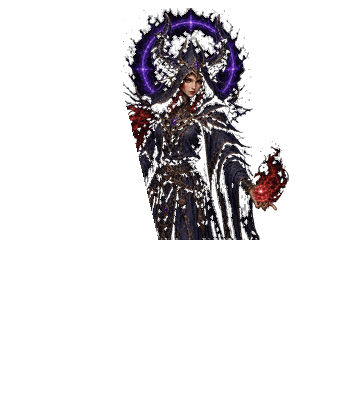
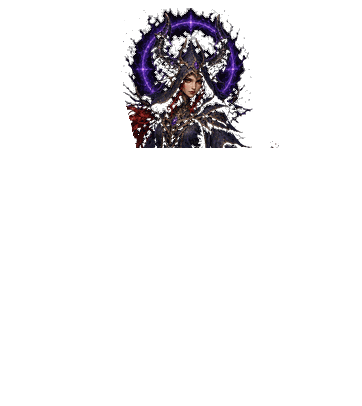
fix(mage): 마법사 모자·투구 파츠에서 상반신 걷어내기 — 투구만 빛나고 로브는 원래 색 (작업 247)
원인: mage_helms 파츠 20장이 머리·모자만이 아니라 어깨·가슴·허리·양팔·왼손 불꽃(셀 y 195)까지 담고 있어, 투구를 쓰면 파츠가 로브 위를 덮고 등급색 발광이 상반신 전체를 물들였다(IMG_1147).

- 파츠 마스크를 머리 구멍과 같은 목선(NECK_Y=104)에서 끝나게 하고 20장을 같은 시안에서 재생성(작업 227 알파 기준 유지)
- 마법사 투구 발광 마스크(성별, 캔버스 캐시): 목선으로 사라지는 페이드 + 얼굴 도려내기. 필드는 syncGearGlow maskTexture, 장비창은 paintPatch destination-in
- PILOT_ASSET_VERSION 4 → 5 (같은 파일명 재배포 캐시 무효화)

Changed region(s): [[0.3646, 0.3547, 0.8204, 0.5911]]

diff --git a/src/game/render/mageHelmets.ts b/src/game/render/mageHelmets.ts
@@ -1,4 +1,5 @@
 import type { Gender, Save } from '../store';
+import { Texture } from 'pixi.js';
 import { baseItemIndex } from '../items';
 import { pilotSheet } from './pilotAssets';
 
@@ -127,3 +128,83 @@ export function mageHelmPlacement(gender: Gender, motion: MageHelmMotion, frame 
 
 /** 장비창(내 정보) 초상화는 서기 한 장만 쓴다. */
 export const mageHelmIdlePlacement = idlePlacement;
+
+/* ── 투구 발광 마스크 (작업 247) ─────────────────────────────────────────── */
+
+/** 파츠 PNG의 셀 크기·높이(셀 362 + 위 여유 44). */
+export const MAGE_HELM_CELL = 362;
+export const MAGE_HELM_PART_HEIGHT = MAGE_HELM_CELL + MAGE_HELM_EXTRA_TOP;
+
+/**
+ * 발광 범위 — “모자·투구만 빛나고 얼굴과 로브는 원래 색” 을 만드는 경계(셀 좌표).
+ *
+ * · `fadeStart`~`fadeEnd`: 목선으로 갈수록 빛이 사라진다. 파츠가 목선(셀 y 104)에서 끊기므로,
+ *   그대로 두면 가슴께에 **직선으로 잘린 발광 띠**가 남는다(실측 검수에서 확인).
+ * · `face`: 얼굴·목의 피부는 빛을 받지 않게 부드럽게 도려낸다. 파츠에 얼굴이 함께 들어 있어
+ *   그냥 두면 유니크·전설 투구에서 얼굴이 통째로 등급색 덩어리가 된다.
+ *
+ * 남녀 모두 서기 셀의 같은 자리(머리 중심 x≈194/205)에 얼굴이 있어 성별로만 나눈다.
+ */
+export type MageHelmGlowZone = {
+  fadeStart: number;
+  fadeEnd: number;
+  face: { x: number; y: number; inner: number; outer: number };
+};
+
+export const MAGE_HELM_GLOW_ZONE: Record<Gender, MageHelmGlowZone> = {
+  female: { fadeStart: 84, fadeEnd: 106, face: { x: 194, y: 48, inner: 20, outer: 34 } },
+  male: { fadeStart: 84, fadeEnd: 108, face: { x: 205, y: 52, inner: 22, outer: 36 } }
+};
+
+/**
+ * 셀 좌표 한 점의 발광 세기(0~1). 캔버스 생성과 테스트가 **같은 식**을 쓴다.
+ *
+ * 목선 쪽은 선형으로 줄고, 얼굴은 `inner`까지 완전히 0, `outer`까지 smoothstep으로 올라온다.
+ */
+export function mageHelmGlowAlpha(gender: Gender, x: number, y: number): number {
+  const zone = MAGE_HELM_GLOW_ZONE[gender];
+  const span = Math.max(1, zone.fadeEnd - zone.fadeStart);
+  const fade = Math.min(1, Math.max(0, (zone.fadeEnd - y) / span));
+  const reach = Math.hypot(x - zone.face.x, y - zone.face.y);
+  const skin = Math.min(1, Math.max(0, (reach - zone.face.inner) / Math.max(1, zone.face.outer - zone.face.inner)));
+  return fade * (skin * skin * (3 - 2 * skin));
+}
+
+const glowMaskTextures = new Map<Gender, Texture>();
+
+/**
+ * 발광 마스크 캔버스 — 파츠와 같은 362×406 이라 파츠와 **같은 앵커·위치·배율**로 얹으면 된다.
+ * 픽셀마다 `mageHelmGlowAlpha` 를 알파로 굽는다(RGB는 흰색, 마스크는 알파만 쓴다).
+ */
+export function mageHelmGlowMaskCanvas(gender: Gender): HTMLCanvasElement | undefined {
+  if (typeof document === 'undefined') return undefined;
+  const canvas = document.createElement('canvas');
+  canvas.width = MAGE_HELM_CELL;
+  canvas.height = MAGE_HELM_PART_HEIGHT;
+  const context = canvas.getContext('2d');
+  if (!context) return undefined;
+  const frame = context.createImageData(MAGE_HELM_CELL, MAGE_HELM_PART_HEIGHT);
+  const pixels = frame.data;
+  for (let row = 0; row < MAGE_HELM_PART_HEIGHT; row += 1) {
+    const cellY = row - MAGE_HELM_EXTRA_TOP;
+    for (let column = 0; column < MAGE_HELM_CELL; column += 1) {
+      const index = (row * MAGE_HELM_CELL + column) * 4;
+      const alpha = mageHelmGlowAlpha(gender, column, cellY);
+      pixels[index] = 255; pixels[index + 1] = 255; pixels[index + 2] = 255;
+      pixels[index + 3] = Math.round(alpha * 255);
+    }
+  }
+  context.putImageData(frame, 0, 0);
+  return canvas;
+}
+
+/** 필드 발광 스프라이트의 마스크 텍스처(성별당 1장, 캐시). */
+export function mageHelmGlowMaskTexture(gender: Gender): Texture | undefined {
+  const cached = glowMaskTextures.get(gender);
+  if (cached) return cached;
+  const canvas = mageHelmGlowMaskCanvas(gender);
+  if (!canvas) return undefined;
+  const texture = Texture.from(canvas);
+  glowMaskTextures.set(gender, texture);
+  return texture;
+}

diff --git a/src/ui/equipmentPortrait.ts b/src/ui/equipmentPortrait.ts
@@ -14,7 +14,7 @@ import { WEAPON_GUARD, weaponIndexFor, weaponPartPath, weaponPose, swordlessBody
 import { BOW_GRIP, bowIndexFor, bowPartPath, bowPose, bowlessBodyPath, usesBowlessBody } from '../game/render/bows';
 import { STAFF_GRIP, staffIndexFor, staffPartPath, staffPlacement, stafflessBodyPath, usesStafflessBody } from '../game/render/staffs';
 import { archerHeadlessBodyPath, archerHelmIdlePlacement, archerHelmIndexFor, archerHelmPartPath } from '../game/render/archerHelmets';
-import { mageHeadlessBodyPath, mageHelmIdlePlacement, mageHelmIndexFor, mageHelmPartPath } from '../game/render/mageHelmets';
+import { mageHeadlessBodyPath, mageHelmGlowMaskCanvas, mageHelmIdlePlacement, mageHelmIndexFor, mageHelmPartPath } from '../game/render/mageHelmets';
 import { gearGlowCss, gearGlowTone } from '../game/render/gearGlow';
 
 /**
@@ -179,6 +179,8 @@ export type EquipmentPortraitMageHelm = {
   x: number;
   y: number;
   scale: number;
+  /** 발광 마스크(얼굴·목선 아래 제외)를 고를 때 쓰는 성별(작업 247). */
+  gender: Save['gender'];
 };
 
 /** 착용 마법사 투구 파츠. 마법사가 아니거나 투구가 없으면 undefined. */
@@ -187,7 +189,7 @@ export function equipmentPortraitMageHelm(save: Save): EquipmentPortraitMageHelm
   const path = mageHelmPartPath(save.gender, mageHelmIndexFor(save));
   if (!path) return undefined;
   const place = mageHelmIdlePlacement;
-  return { path, x: place.x, y: place.y, scale: place.scale };
+  return { path, x: place.x, y: place.y, scale: place.scale, gender: save.gender };
 }
 
 export type EquipmentPortraitHelmet = {
@@ -449,7 +451,7 @@ const headCell = { x: 228, y: 74, rx: 38, ry: 44 } as const;
  */
 function paintPatch(
   context: CanvasRenderingContext2D, image: HTMLImageElement,
-  x: number, y: number, width: number, height: number, glow?: string
+  x: number, y: number, width: number, height: number, glow?: string, mask?: HTMLCanvasElement
 ): void {
   if (!glow) { context.drawImage(image, x, y, width, height); return; }
   const tinted = document.createElement('canvas');
@@ -478,6 +480,14 @@ function paintPatch(
     pixels[index + 2] = Math.min(255, rgb[2] * light);
   }
   paint.putImageData(frame, 0, 0);
+  // [작업 247] 마법사 모자·투구 — 얼굴과 목선 아래는 빛에 물들지 않게 마스크로 도려낸다.
+  // (`destination-in`: 마스크 알파가 0인 곳을 지운다. 마스크는 파츠와 같은 크기다.)
+  if (mask) {
+    paint.save();
+    paint.globalCompositeOperation = 'destination-in';
+    paint.drawImage(mask, 0, 0, tinted.width, tinted.height);
+    paint.restore();
+  }
   context.save();
   // [작업 231] 장비 윤곽 밖으로 번지는 후광도 두 배 가까이 넓혔다.
   context.shadowColor = glow;
@@ -570,7 +580,8 @@ async function composeFallback(
       // 마법사 투구 파츠도 362px 셀 전체 크기라, 본체 그림의 배율·좌상단에 그대로 얹는다.
       // 파츠 PNG 가 셀 위로 44행 더 크므로 y 가 음수이고, 그만큼 위 여백에 그려진다.
       const layerScale = mageHelm.scale * scale;
-      paintPatch(context, patch, left + mageHelm.x * scale, top + mageHelm.y * scale, patch.naturalWidth * layerScale, patch.naturalHeight * layerScale, glow?.color);
+      paintPatch(context, patch, left + mageHelm.x * scale, top + mageHelm.y * scale, patch.naturalWidth * layerScale, patch.naturalHeight * layerScale,
+        glow?.color, glow ? mageHelmGlowMaskCanvas(mageHelm.gender) : undefined);
     } catch (error) {
       console.info('[장비창] 마법사 투구 파츠 로딩 실패 → 전신 그림만 표시:', error);
     }

diff --git a/src/game/render/entities.ts b/src/game/render/entities.ts
@@ -15,7 +15,7 @@ import { wearableEquipmentImage, baseItemIndex, usesBaseSheetOnly, hasNoWeapon, 
 import { jobOrDefault } from '../skills';
 import { helmetArtFor, helmetArtPath, helmetPlacement } from './helmets';
 import { archerHelmIndexFor, archerHelmPartPath, archerHelmPlacement } from './archerHelmets';
-import { mageHelmIndexFor, mageHelmPartPath, mageHelmPlacement } from './mageHelmets';
+import { mageHelmIndexFor, mageHelmGlowMaskTexture, mageHelmPartPath, mageHelmPlacement } from './mageHelmets';
 import { armorIndexFor } from './armors';
 import { archerArmorIndexFor } from './archerArmors';
 import { hasRobeSheet, mageRobeIndexFor } from './robes';
@@ -392,7 +392,7 @@ export const GEAR_GLOW_LABEL = 'gear-glow';
 
 function syncGearGlow(
   view: GameView, key: 'armor' | 'helmet' | 'weapon', source: Sprite | undefined, rarity: Rarity | undefined,
-  time: number, neckY?: number
+  time: number, neckY?: number, maskTexture?: Texture
 ): void {
   const tone = gearGlowTone(rarity);
   // 테스트용 스텁 뷰는 이 지도를 만들지 않는다 — 없으면 그 자리에서 만든다.
@@ -425,6 +425,23 @@ function syncGearGlow(
     mask.position.set(-width * source.anchor.x, top);
     mask.width = width;
     mask.height = Math.max(1, bottom - top);
+  } else if (maskTexture) {
+    // [작업 247] 마법사 모자·투구 — 얼굴과 목선 아래로는 빛이 번지지 않게 마스크를 건다.
+    // 마스크 텍스처가 파츠와 같은 362×406 이라 앵커·위치·배율을 그대로 복사하면 된다.
+    mask = view.heroHelmGlowMask ?? (() => {
+      const span = new Sprite(maskTexture);
+      span.anchor.set(0, 0);
+      // 릴상 복제(`cloneHeroLayers`)가 마스크를 몸으로 찍지 않도록 발광 레이어 표식을 단다.
+      span.label = GEAR_GLOW_LABEL;
+      view.heroLayer.addChild(span);
+      view.heroHelmGlowMask = span;
+      return span;
+    })();
+    mask.texture = maskTexture;
+    mask.anchor.set(source.anchor.x, source.anchor.y);
+    mask.position.set(source.position.x, source.position.y);
+    mask.scale.set(source.scale.x, source.scale.y);
+    mask.rotation = source.rotation;
   }
   // 발광 층은 밝기 비례 등급색으로 구운 1/3 크기 텍스처를 쓴다(원본 `tint`만으로는 어두운 갑옷이
   // 거의 빛나지 않는다). 원본과 같은 앵커·위치에서 축소한 만큼 키워 얹는다.
@@ -695,7 +712,10 @@ export function drawHero(this: GameView, world: World, x: number, y: number, tim
       ? 104
       : helmetPlacement(save.gender, animation, animation === 'walk' ? walkingFrame : animatedAttack ? Math.max(0, attackFrame) : 0, Math.max(0, helmetIndex(save))).y;
     syncGearGlow(this, 'armor', this.hero, save.equipment.armor?.rarity, time, neckY);
-    syncGearGlow(this, 'helmet', wornHelmet, save.equipment.helmet?.rarity, time);
+    // [작업 247] 마법사 투구는 파츠에 얼굴이 함께 있어 그대로 두면 얼굴까지 등급색이 된다 —
+    // 성별 발광 마스크(얼굴·목선 아래 제외)를 투구 발광에만 건다(전사·궁수 투구는 예전 그대로).
+    const mageHelmGlowMask = mage && mageHelm >= 0 ? mageHelmGlowMaskTexture(save.gender) : undefined;
+    syncGearGlow(this, 'helmet', wornHelmet, save.equipment.helmet?.rarity, time, undefined, mageHelmGlowMask);
     syncGearGlow(this, 'weapon', wornWeapon, save.equipment.weapon?.rarity, time);
     let bob = 0;
     const local = world.effects.filter(effect => effect.kind !== 'hit' && effect.kind !== 'death' && Math.hypot(effect.x - player.x, effect.y - player.y) < 2);

diff --git a/src/game/render/pilotAssets.ts b/src/game/render/pilotAssets.ts
@@ -10,10 +10,11 @@
  * 서기(`idle`)에만 `?v=2`를 붙이던 규칙 대신 **pilot-25d 경로 전체**에 이 버전을 붙인다.
  *
  * [작업 229]는 전사 서기 시트를 222 이전 그립으로 되돌렸다 — 파일명이 같으므로 3 → 4로 올린다.
+ * [작업 247]은 마법사 모자·투구 파츠 20장에서 상반신을 걷어냈다 — 같은 파일명이므로 4 → 5.
  *
- * 새 시트를 같은 파일명으로 다시 구울 때는 이 값만 올린다(4 → 5).
+ * 새 시트를 같은 파일명으로 다시 구울 때는 이 값만 올린다(5 → 6).
  */
-export const PILOT_ASSET_VERSION = 4;
+export const PILOT_ASSET_VERSION = 5;
 
 /** pilot-25d 시트 URL 하나에 배포본 버전을 붙인다(기존 `?v=N`은 교체). */
 export function pilotSheet(path: string): string {

diff --git a/src/game/render.ts b/src/game/render.ts
@@ -270,6 +270,8 @@ export class GameView {
   heroGlow = new Map<string, Sprite[]>();
   /** 갑옷 발광을 목 아래로 자르는 마스크(작업 218) — 얼굴은 원래 색으로 남긴다. */
   heroGlowMask?: Sprite;
+  /** 마법사 투구 발광 마스크(작업 247) — 얼굴·목선 아래로는 빛이 번지지 않는다. */
+  heroHelmGlowMask?: Sprite;
   /** 독립형 코스튬 렌더러 상태(작업 140). 매니페스트·아틀라스가 없으면 폴백으로 굳는다. */
   costume: CostumeHeroState = createCostumeHeroState();
   enemies = new Map<Enemy, Sprite>();

diff --git a/scripts/build-mage-helm-parts.py b/scripts/build-mage-helm-parts.py
@@ -29,6 +29,9 @@
 ④ 고깔모·후광·날개·뿔은 상자 밖(위·옆)으로 뻗는다. 그 부분은 지우지 않고 **파츠로만 덧그린다**
    (`extras`). 그래서 파츠 PNG는 셀 위로 44행 더 큰 362×406이고, 그리기 좌표는
    `MAGE_HELM_EXTRA_TOP` 만큼 위로 올린다.
+⑤ 파츠와 머리 구멍은 **목선(`NECK_Y` = 셀 y 104)에서 끝난다**(작업 247). 그 아래 가슴·허리·
+   양팔·왼손의 불꽃은 파츠에 넣지 않는다 — 넣으면 파츠가 입고 있는 로브를 덮어 상체 옷이 바뀌어
+   보이고, 유니크·전설 발광이 투구 대신 상반신 전체를 물들인다(작업 204의 증상).
 ⑤ 걷기·공격 프레임은 머리 위치·크기가 서기와 달라서, 서기 얼굴을 템플릿으로 각 프레임에서
    (배율·이동)을 찾아 그 변환을 파츠와 구멍에 똑같이 적용한다(값은 `src/game/render/mageHelmets.ts` 표).
 
@@ -75,11 +78,15 @@ CORE_ERODE = 2             # 지우는 영역은 파츠가 덮는 영역보다 2
 # 지우는 상자(셀 좌표) — 머리·목 아래(목덜미)까지. 이 안에서 **본체 실루엣이 있는 곳**을 지운다.
 # 본체에 있던 픽셀만 지우면 파츠가 그 자리를 그대로 덮고(같은 원본), 투구가 머리카락을 없앤 시안은
 # 파츠도 비어 있어 배경이 비친다 — 어느 쪽이든 자연스럽다.
-ERASE_BOX = {'male': (128, 242, -EXTRA_TOP, 104), 'female': (124, 256, -EXTRA_TOP, 104)}
-# 덧그리는 상자 — 고깔모 챙·날개·후광·후드 망토·어깨 장식까지. 아래 경계가 파츠의 마지막 줄(이음새)이다.
-# 오른쪽은 어깨·후광이 잘리지 않게 넓게 잡는다. 든 손(마법 광채)도 함께 들어오지만 같은 그림이라
-# 겹쳐 그려도 모양이 같다(지팡이만 통로로 뺀다).
-EXTRA_BOX = {'male': (80, 300, -EXTRA_TOP, 176), 'female': (76, 312, -EXTRA_TOP, 196)}
+# 목선(셀 좌표) — **파츠와 머리 구멍이 함께 끝나는 높이**다. 이 아래(가슴·허리·양팔, 특히 왼손의
+# 불꽃)는 파츠에 넣지 않는다(작업 247). 파츠가 거기까지 들어 있으면 로브 위를 덮어 상체 옷이
+# 바뀌어 보이고, 등급색 발광도 투구가 아니라 상반신 전체를 물들인다.
+NECK_Y = 104
+ERASE_BOX = {'male': (128, 242, -EXTRA_TOP, NECK_Y), 'female': (124, 256, -EXTRA_TOP, NECK_Y)}
+# 덧그리는 상자 — 고깔모 챙·날개·후광·후드·어깨 망토까지. 아래 경계가 파츠의 마지막 줄(목선)이다.
+# 오른쪽은 어깨·후광이 잘리지 않게 넓게 잡는다(지팡이만 통로로 뺀다).
+# [작업 247] 예전에는 y=196/176(허리)까지라 상체 로브·팔·불꽃이 파츠에 통째로 딸려 들어왔다.
+EXTRA_BOX = {'male': (80, 300, -EXTRA_TOP, NECK_Y), 'female': (76, 312, -EXTRA_TOP, NECK_Y)}
 
 # 지팡이 통로(서기 자세 그립 기준, `staffs.ts` STAFF_POSES idle0 과 같은 값) — 파츠에서 뺀다.
 STAFF_LINE = {'male': ((85, 58), (150, 330)), 'female': ((84, 0), (168, 351))}

diff --git a/docs/TASK.md b/docs/TASK.md
@@ -8,6 +8,7 @@
 
 | 작업 | 담당자 | 브랜치 | 수정 예정 파일 / 영향 영역 | 위험 등급 | 상태 |
 |---|---|---|---|---|---|
+| [작업 247] **마법사 모자·투구 파츠가 상반신 로브까지 덮어 로브가 함께 빛나던 문제** — 사용자 제보 "투규만 유니크인대 갑옷도 반짝거리네"(2026-11-21 02:23 KST, `IMG_1147`). ① **원인**: `public/assets/pilot-25d/mage_helms/{male,female}_{0..9}_v1.png`(362×406)가 머리·모자만 잘린 것이 아니라 **가슴·허리·양팔·왼손 불꽃까지(셀 y 195 = 파츠 y 239)** 담고 있었다. 그래서 투구를 쓰면 파츠가 입고 있는 로브 위를 덮어 상체 옷이 바뀌어 보이고, 등급색 발광(`gearGlow`)이 투구가 아니라 **상반신 전체**를 물들였다. ② **파츠 수정**(`scripts/build-mage-helm-parts.py`): 파츠 마스크 아래 경계를 `EXTRA_BOX` 의 y=196/176(허리)에서 **`NECK_Y`=104(목선)** 로 내렸다 — 머리 구멍(`ERASE_BOX`)과 같은 높이다. 20장을 같은 시안(`downloads/mage_helm_v2`)에서 다시 구워 9~19KB → **5~12KB**, `restore-pilot-alpha.py`로 작업 227의 내부 알파 기준(내부 불투명)을 그대로 맞췄다. ③ **발광 범위**(`src/game/render/mageHelmets.ts` 신규 `MAGE_HELM_GLOW_ZONE`·`mageHelmGlowAlpha`·`mageHelmGlowMaskCanvas`·`mageHelmGlowMaskTexture`): 파츠에 얼굴이 함께 들어 있어 그대로 두면 유니크·전설에서 얼굴이 등급색 덩어리가 되고, 파츠가 목선에서 끊긴 자리에 **직선으로 잘린 발광 띠**가 남는다 → 성별 발광 마스크를 캔버스로 구워(새 PNG 없음, 성별당 1장 캐시) 목선(84→106/108)으로 갈수록 빛이 사라지고 얼굴(inner 20~22px)은 도려낸다. 필드는 `entities.ts` `syncGearGlow` 의 7번째 인자로 마스크 텍스처를 받아 `GameView.heroHelmGlowMask`(파츠와 같은 앵커·위치·배율)로 걸고, 장비창은 `equipmentPortrait.ts` `paintPatch` 가 `destination-in` 으로 도려낸다(마법사 투구일 때만 — 전사·궁수 투구는 예전 그대로). ④ `PILOT_ASSET_VERSION` 4→5(같은 파일명 재배포 캐시 무효화). | songduckjin | `fix/247-mage-helm-torso` | `scripts/build-mage-helm-parts.py`, `public/assets/pilot-25d/mage_helms/*.png`(20장), `src/game/render/{mageHelmets,entities,render,pilotAssets}.ts`, `src/ui/equipmentPortrait.ts`, `tests/{mage-helm-render,gear-rarity-glow}.test.mjs`(신규 3건), `?v=4`→`?v=5` 기대값 13개 테스트 파일, `docs/{TASK,WORKLOG}.md` | 보통 | [-] — PR 대기(사용자 지시 "오늘부터는 모아서 배포" → **머지·배포 금지**). 검증: `npx tsc --noEmit`·`npm run build` 통과, 전체 1,060건 중 1,056 통과(실패 4건은 변경 전 `origin/main`과 동일: `costume-field-render` 2·`skillbook-server` 1·`hero-art` 1). 검수 이미지 `downloads/djrpg_mage_helm_torso_before_after_v1.png`(전/후)·`djrpg_mage_helm_glow_portrait_v1.png`(일반/유니크/전설)·`djrpg_mage_helm_glow_field_v1.png`(필드 42%)·`djrpg_mage_helm_glow_all_{female,male}_v1.png`(10종 전수). **남은 것**: 목선 위 어깨까지 파츠를 줄이려면 머리 구멍이 104까지인 `mage_headless` 12장 + `robes/headless` 54장을 함께 다시 구워야 한다(그대로 줄이면 어깨에 투명 구멍) — 이번에는 파츠·발광만 손봤다 |
 | [작업 246] **가방 40칸 초과로 저장이 거절돼 우편함·거래소가 영구히 잠기던 문제** + 가방 FULL 표시·우편함 가득 참 안내 — 사용자 제보 `#20869` "우편함 안받아져"·`#20887` "이전저장결과를 확인하래"·`#20915` "가방또는 징비데이터도 올바르지 않대"·`#20938` "가방 꽉차면 가방 풀 표시 해주고 우편도 받을따 가방이 꽉차짔다거 알림주기"(2026-11-21 10:37~10:44 KST). ① **원인**: `server/journey.mjs` `rewards()`가 우편·일일·주간·업적 보상 스킬북을 **칸 검사 없이** `save.bag.push`로 넣는데, 저장 검사(`server/database.mjs` `reconcileItems`)는 `countedInBag`(장비 + **다른 직업 전용 스킬북**)이 40을 넘으면 `400 INVALID_SAVE "가방 또는 장비 데이터가 올바르지 않습니다."`로 거절했다 → 40칸이 찬 계정이 보상을 받은 순간부터 **서버가 스스로 만든 세이브를 서버가 거절**해 모든 `save`가 실패하고, `SaveSync.flush()`가 false라 `mutate()`가 `이전 저장 결과를 확인해야 거래할 수 있습니다.`로 우편함·거래소를 영구히 잠갔다(로컬 libSQL로 `accountEndpoint` 재현: 40장비 + 다른 직업 책 2권 → 400). ② **서버 수정**: `bagCapacityLimit(save)`(=`max(40, 그 세이브가 들고 있는 counted 수)`)를 두어 **이미 서버가 넘겨 둔 초과분은 저장 허용**, 클라이언트가 그 위로 더 넣는 것만 계속 거절(문구도 `가방이 N칸까지입니다. 장비·다른 직업 스킬북을 분해하거나 거래소에 올려 자리를 비워 주세요.`로 원인·해결 안내). `inventoryOwnerQuery`의 중복 40칸 선검사는 장비 칸(>10)만 남겨 서버 세이브를 읽기 전 400으로 막지 않게 했다. **아이템 손실 없음** — 넘친 계정은 그대로 저장되고, 분해·판매로 40 아래로 내려오면 종전 규칙으로 돌아간다 ③ **보상 수령 안내**: `journey.mjs`가 수령 뒤 40칸을 넘으면 `가방이 N칸이 되어 새 장비를 주울 수 없습니다. 분해·판매로 자리를 비워 주세요.`를 응답 메시지에 붙인다(수령 자체는 막지 않음 — 받을 것을 잃지 않는 것이 우선) ④ **클라이언트 교착 방지**(`src/game/sync.ts`): 저장 실패 이유(`lastSaveError`)를 `이전 저장 결과를 확인해야 거래할 수 있습니다. (사유)`로 함께 보여 주고, `400 INVALID_SAVE`·`INVALID_ITEM`·`INVALID_GOLD`는 재시도로 풀리지 않으므로 **서버 최신 세이브로 재동기화**(기존 충돌 루프 가드 사용)해 거래소·우편 잠금에서 벗어난다 ⑤ **UI**(`src/ui/hud.ts`·`src/ui/interface.ts`·`src/styles/hud.css`·`src/ui/modals/{equipModal,utilityModal}.ts`): 가방이 40칸이면 하단 `내 정보` 버튼에 빨간 **`FULL`** 배지(테두리 강조·`aria-label`에 `가방 가득 참 (N/40)`), 가방 창 바닥 줄에 **`가득 참`**, 우편함 상단에 **`가방이 가득 찼습니다 (N/40칸). 우편 보상은 그대로 받을 수 있지만, 새 장비를 주우려면 분해·판매로 자리를 비워 주세요.`** 안내 | songduckjin | `fix/246-bag-capacity-save` | `server/{database,journey}.mjs`(`bagCapacityLimit`·`countedBagItems`·`EQUIPMENT_BAG_LIMIT`·칸 한도 판정·수령 안내), `src/game/sync.ts`(`lastSaveError`·`saveRejectedCodes` 재동기화·`saveBlockedMessage`), `src/ui/hud.ts`(FULL 배지), `src/ui/interface.ts`(`.bag-full-badge`), `src/styles/hud.css`, `src/ui/modals/equipModal.ts`(가득 참), `src/ui/modals/utilityModal.ts`(우편함 안내), `tests/bag-limit-recovery.test.mjs`(신규)·`tests/sync.test.mjs`·`tests/bag-capacity.test.mjs`·`tests/journey-ui.test.mjs`, `docs/{TASK,CODE_MAP,WORKLOG}.md` | 보통 | [x] — [PR #250](https://github.com/songduckjin/DJRPG/pull/250) 스쿼시 `91fbd93339ba`(Cloudflare Pages SUCCESS), 운영 `djrpg.pages.dev` `version.json` `91fbd93339ba`(`builtAt` 2026-11-21T02:16:30Z = 11:16 KST)·루트 200. 배포 번들 `assets/index-C-Egseuw.js`(762,924B)에 `saveBlockedMessage("이전 저장 결과를 확인해야 거래할 수 있습니다.")`·`INVALID_SAVE`·`bag-full-badge`·`가방이 가득 찼습니다 (${…}/${…}칸). 우편 보상은 그대로 받을 수 있지만…`·`가방이 가득 찼습니다 (${…}/${…}) · 분해·판매로 자리를 비워 주세요`, CSS `assets/index-QurHbkjf.css`에 `.bag-full-badge{…background:#b8402e…}`·`.mail-bag-full{…}`·`.bag-full-flag{color:#ff9a86…}` 포함 실측. **운영 API 실측**: 게스트 `save` 200 → 신규 계정 `register`→`createCharacter`→`save` 200 → `journey-list`(우편 5통)→`journey-claim` `5개 보상을 수령했습니다`(bag 9)→**그 세이브로 `save` 200**(제보 경로) → 41칸 `save`는 `400 INVALID_SAVE "가방이 40칸까지입니다. 장비·다른 직업 스킬북을 분해하거나 거래소에 올려 자리를 비워 주세요."`. 검증: `npx tsc --noEmit`·`npm run build` 통과, 신규 `bag-limit-recovery` 3/3·`sync` 23/23·`bag-capacity`·`journey-ui`·`journey`·`equipment-badge` 통과, 전체 1,058건 중 1,055(실패 3건은 `origin/main`과 동일한 기존 건) |
 | [작업 244] **궁수·마법사 사거리 소폭 상향** — 사용자 요청 "그리고 궁수 법사 사거리 조금씩늘려줘"(2026-11-21 08:28 KST). ① `src/game/world.ts`: 궁수 `archerAttackRange` 280→**330**·`archerStopRange` 150→**180**, 마법사 `mageAttackRange` 240→**285**·`mageStopRange` 130→**160**(전사 90 그대로). `궁수 > 마법사 > 전사` 순서와 `사거리 > 정지 거리`(평타의 약 55%) 비율을 유지했다. 실제로 서서 쏘는 거리는 정지 거리라(이동 중에는 공격하지 않는 규칙 — 이동 판단은 `pursuing = distance >= stopRange`), 궁수 150→180·마법사 130→160이 체감 상향 폭이다. ② `src/game/skills.ts`: 평타만 멀어지고 Lv.1 스킬 사거리가 그대로면(더블 샷 232 < 평타 330) 평타는 닿는데 스킬은 안 닿는 자리가 생기므로 **날아가는 원거리 공격 스킬의 `range`를 약 15% 함께 올렸다**(더블 샷 265·멀티 샷 260·관통 사격 305·빙결 화살 270·저격 일격 340·폭풍 연사 285·애로우 레인 295, 파이어 볼트 260·아이스 볼트 270·체인 라이트닝 275·마력 폭발 250·메테오 285). 자기 몸 중심 기술·버프(프로스트 노바 150·아르카나 오버로드 210·호크아이 200·아케인 실드 120)는 `range`가 곧 효과 반경이라 그대로. ③ 탄환 수명은 `거리 / 속도`로 계산되므로(`shoot`) 사거리를 늘려도 화살·구슬이 도착 전에 사라지지 않는다 — 속도(궁수 평타 820·마법사 760)는 손대지 않았다 | songduckjin | `feat/244-ranged-range-up` | `src/game/world.ts`(사거리·정지 거리 상수), `src/game/skills.ts`(원거리 공격 스킬 `range`), `tests/range.test.mjs`(신규 7건), `tests/archer.test.mjs`(확정 수치), `docs/{TASK,CODE_MAP,QUICK_PATCH,WORKLOG}.md` | 낮음 | [x] — [PR #248](https://github.com/songduckjin/DJRPG/pull/248) 스쿼시 `bb43102c389f`(Cloudflare Pages SUCCESS), 운영 `djrpg.pages.dev` `version.json` `bb43102c389f`(`builtAt` 2026-11-20T23:49:53Z = 08:49 KST)·루트 200, 배포 번들 `assets/index-DmAoBMxa.js`에 `Ai=330,p2=180,Ci=285,m2=160`과 스킬 사거리(`snipe` 340·`pierceShot` 305·`arrowRain` 295·`stormVolley`/`meteorStrike` 285·`doubleShot`/`fireBolt` 260 등) 포함 실측. 검증: `npx tsc --noEmit`·`npm run build` 통과, 신규 `tests/range.test.mjs` 7/7, 관련 `tests/{archer,mage,world-movement,field-spawn}` 59/59, 전체 1,050건 중 1,046 통과(실패 4건은 작업 243 시점과 동일). **단, 운영 `/api/*`가 아직 405**(08:51 KST 실측)라 폰 실기 확인은 한도 초기화 후 가능 |
 | [작업 243] **적 공격 모션·끝없는 던전 스킬 쿨타임 실시간 표시·치명타 확률 실전 반영·API 호출 절감** — 사용자 요청 "9시전에 다 적용하자"(2026-11-21 07:57 KST)로 모아 둔 세 건을 한 번에 배포. ① **적 공격 모션**: `Enemy.attack`(작업 245) — 적이 때리는 순간 `ENEMY_STRIKE_SECONDS`(0.42초) 동안 플레이어 쪽으로 몸을 실어 내딛고(0.34까지 빠르게 나갔다 천천히 복귀, 몸 8% 늘림·색 0xffb9a4) 제자리로 돌아온다. 필드는 접촉 피해 순간, 던전은 `DungeonBattle.step`의 0.9초 피해 순간, 월드보스는 보스 타격 순간에 발동. 맞는 쪽에는 새 이펙트 `enemyStrike`(할퀴기 3줄 + 충격 섬광)와 붉은 `-N` 피해 숫자가 뜬다. ② **던전 스킬 쿨타임**: `.dungeon-auto-skills`의 장착 3칸이 `world.cooldown[id] / cooldowns[id]` 비율로 매 프레임 어두운 원형 마스크(`scaleY`)와 남은 초(10초 이상은 정수, 그 아래는 0.1초)를 갱신한다. ③ **치명타**: 장비 추가옵션 `치명타 확률`은 이미 `totalStats(save).crit`에 합산(표시)되고 있었지만 전투에서 굴리지 않았다 — `World.damage()`가 타마다 `crit`% 확률로 1.8배(상한 80%)를 터뜨리고 금빛 큰 숫자로 표시. 월드보스는 서버 재계산과 같은 순서가 되도록 별도 시드(`REHEARSAL_CRIT_SEED`) 굴림을 끼웠다(`World.critRoll`). 던전은 기존 고정 스텝 시드 난수를 그대로 쓴다. ④ **API 호출 절감**(Cloudflare 무료 10만 건/일 초과 120,897건 → 405 대응): 자동 저장 상한 5초→10초(탭 숨김 45초, 숨김 전환 시 즉시 1회 저장은 유지), 저장 확인 타이머 5→10초, 전광판 폴링 5→30초, 여정(우편·보상·업적) 폴링 30→120초, 월드보스 순위 5→20초. | songduckjin | `feat/243-combat-motion-crit-api` | `src/game/world.ts`(적 공격 모션·치명타·`enemyStrike` 이펙트), `src/game/render/{entities,vfx,render}.ts`, `src/game/worldBossRehearsal.ts`, `src/ui/dungeonBattle.ts`, `src/ui/dungeonField.ts`, `src/styles/dungeon.css`, `src/game/sync.ts`, `src/main.ts`, `src/ui/{interface,legendBar,skillFeedback}.ts`, `src/game/worldBossLive.ts`, `tests/crushing.test.mjs` | 보통 | [x] — [PR #246](https://github.com/songduckjin/DJRPG/pull/246) 스쿼시 `b26eb3fdc2c4`, 운영 `djrpg.pages.dev` `version.json` `b26eb3fdc2c4`(`builtAt` 2026-11-20T23:12:21Z)·루트 200, 배포 번들 `assets/index-Cj-RzYW2.js`에 `enemyStrike`·`critRoll`·`dungeon-auto-skill-mask`(CSS `index-ZadWjGuG.css`에도 `.dungeon-auto-skill-mask`) 포함 확인. 검증: `tsc --noEmit`·`vite build` 통과, 전체 1,034건 중 1,030 통과(crushing 2건은 치명타 고정으로 해소, 남은 4건은 costume-field-render 2·skillbook-server 1·market 1 기존 실패) + 신규 `tests/enemy-strike-crit.test.mjs` 3/3. **단, 운영 `/api/*`가 여전히 전부 405**(무료 한도 초기화 시각인 09:12 KST에도 동일)라 운영 실기 검수는 로그인 복구 후 가능 |

diff --git a/docs/CODE_MAP.md b/docs/CODE_MAP.md
@@ -8,7 +8,7 @@
 | 작업 영역 | 핵심 파일 | 연관 파일 | 관련 테스트 |
 |---|---|
 | 장비 추가옵션(에픽 1·유니크 2·전설 3개, 9종 1~3%, 작업 238) | `src/game/extraOptions.ts`(`extraOptionKeys`·`extraOptionCounts`·`deriveExtraOptions`(id 시드)·`extraOptionsFor`·`normalizeExtraOptions`·`extraOptionTotals`/`effectiveExtraOptions`(회피 30%·회복 12%/5초·피흡 15% 상한)·`extraOptionPower`·`extraOptionLines`), `src/game/items.ts`(`EquipmentItem.extraOptions`·`rollEquipment`·`migrateItem`·`totalStats`·`itemPower`) | `src/game/world.ts`(회피·5초 회복·피흡·추가 데미지·`Effect.kind='evade'/'heal'`), `src/game/worldBossRehearsal.ts`, `src/game/render/vfx.ts`(라벨), `src/ui/skillsFeedback.ts`, `src/ui/modals/{equipModal,marketModal,warehouseModal}.ts`, `src/ui/equippedDetail.ts`, `src/styles/modals.css`(`.item-extra`·`.equipment-info-extras`·`.warehouse-extra`), `server/extra-options.mjs`(같은 식 사본·`normalizeExtraOptions`), `server/{save-guard,database}.mjs`, `server/endpoints/warehouse.mjs` | `extra-options`, `item-plus`, `save-guard`, `equipment-info`, `warehouse-grid` |
-| 캐릭터·장비 시트가 반투명(황야 바닥이 몸통 뒤로 비침, 작업 227 → 229) | `scripts/restore-pilot-alpha.py`(알파 복원 규칙·멱등 — 서기 시트를 갈 때마다 다시 돌린다), `src/game/render/pilotAssets.ts`(`PILOT_ASSET_VERSION`=4·`pilotSheet`·`pilotSheets`) | `public/assets/pilot-25d/**`(267장), `src/game/render/{armors,weapons,bows,staffs,robes,archerArmors,helmets,mageHelmets,archerHelmets}.ts`·`src/game/render.ts`·`src/ui/equipmentPortrait.ts` — 모든 pilot URL이 `pilotSheet()`를 지난다 | `pilot-alpha`, `weapon-render`, `armor-render`, archer·mage·bow·staff·robe·helm 렌더 테스트 |
+| 캐릭터·장비 시트가 반투명(황야 바닥이 몸통 뒤로 비침, 작업 227 → 229) | `scripts/restore-pilot-alpha.py`(알파 복원 규칙·멱등 — 서기 시트를 갈 때마다 다시 돌린다), `src/game/render/pilotAssets.ts`(`PILOT_ASSET_VERSION`=5·`pilotSheet`·`pilotSheets`) | `public/assets/pilot-25d/**`(267장), `src/game/render/{armors,weapons,bows,staffs,robes,archerArmors,helmets,mageHelmets,archerHelmets}.ts`·`src/game/render.ts`·`src/ui/equipmentPortrait.ts` — 모든 pilot URL이 `pilotSheet()`를 지난다 | `pilot-alpha`, `weapon-render`, `armor-render`, archer·mage·bow·staff·robe·helm 렌더 테스트 |
 | 첫 화면 `Failed to fetch dynamically imported module`(작업 219 → 224) | `index.html`·`public/boot-recovery.js`(작업 224: `vite:preloadError` + `error`·`unhandledrejection`의 동적 import 실패 문구를 모두 받아 **60초에 1회** `_boot` 쿼리로 캐시를 우회해 다시 연다), `src/game/wasteland.ts`(`Assets`·`mountAmbientScene` 정적 import), `src/game/wastelandGeometry.ts` | `ambientMotion.ts`·`ambientScene.ts`는 좌표 값을 geometry에서 읽어 순환 참조를 피함; `main.ts`·저장/API 계약은 수정하지 않음 | `boot-recovery`, `wasteland`, `ambient-motion` |
 | 최고층에서 2층 이상 내려왔을 때 `▲ 최고층` 복귀 버튼(작업 224 `#6215`) | `src/ui/hud.ts`(`renderStatus`의 `.status-floor` — `save.maxFloor - save.floor >= 2`일 때만 버튼·클릭 시 `world.travelToFloor(save.maxFloor)`), `src/styles/hud.css`(`.floor-return`) | `src/game/world.ts` `travelToFloor`(이미 최고층까지 이동)·보스 도전 버튼(`.boss-retry`) 로직·층 선택 창(`floorModal`) | `floor-return`, `world-movement` |
 | 거래소 `최근 거래` 탭·`현재 최소 등록 금액`·업적 `거래소 거래 완료`(작업 224 `#6289`·`#6294`·`#6313`) | `src/ui/modals/marketModal.ts`(`renderRecent`·`views`의 `recent`·`renderRegister`의 `.market-min-price`), `src/game/market.ts`(`MarketView` `recent` → 서버 `view:'sold'`·`rules.minPrice`), `server/market.mjs`(`rules.minPrice`·`tradeCountOperation`·`tradeParties`), `server/journey-state.mjs`(`milestones` `market`·`journeyView`의 `get(save,state)`), `src/styles/market.css`(`.market-recent-*`·`.market-min-price`·탭 6칸) | `snapshot`의 `view:'sold'` 계약·판매 수수료·`writeSave` 배치 수(2)·판매자의 세이브(`save_json`)를 직접 고치기(클라이언트가 덮어쓴다) | `market`, `market-actions`, `achievements`, `floor-return` |
@@ -179,7 +179,8 @@
 - `render.ts` (241) — PixiJS 뷰·에셋 경로·draw 진입점. `GameView`(`mount`,`draw`, hero/enemy/vfx/loot 위임 메서드, `lootBack`/`lootFront`·`lootViews`·`lootTaken`), `paths`/`animationPaths`/`attackSheets`/`walkSheets`, `renderAssetPaths`, `Art`. `walkSheets`는 가로/세로 비가 2.5 초과면 4포즈 1줄(세로 290), 아니면 8포즈 4×2로 자른다. 스테이지 순서: 바닥 → 조명 → 그림자 → 지형 → `lootBack` → 배우 → `lootFront` → 시체 → 스킬 → 이펙트 → 라벨 → 비네트.
 - `render/armors.ts` — 착용 갑옷 10종 전신 시트(`armors/`·`armors/headless/`)의 경로·프레임·인덱스 규칙(작업 155). 시트는 기준 pilot 시트와 같은 362px 셀(서기 362×362, 걷기·공격 1448×362)이고, `armorIndexFor(save)` 가 갑옷 없음·기본형 아님을 -1 로 돌려준다.
 - `render/robes.ts` (작업 203, 신규) — 마법사 전용 로브 10종 시트 규칙. `mageRobeIndexFor(save)`(마법사가 아니거나 갑옷이 없으면 -1, 0~9는 `baseItems.armor` 인덱스), `robeSheetPath`/`robeSheetPaths`(1~9번만 `robes/` 시트, 0번은 스타터 천 로브 기준 시트), `robeFrameIndex`(4프레임 접힘), `robeSheetKey`. 시트는 기준 마법사 시트와 같은 362px 셀(서기 362×362, 걷기·공격 1448×362)이고, 로딩·캐시는 `render.ts`의 `robeFrame`·`prefetchRobe`(최근 3티어 `robeTierCacheLimit=3`)가 맡는다. 지팡이는 아직 본체 시트에 그려져 있어 로브 시트도 같은 지팡이를 유지한 판본이다.
-- `render/mageHelmets.ts` (작업 204, 신규) — 마법사 전용 모자·투구 10종 파츠 규칙. `MAGE_HELM_COUNT`(10)·`MAGE_HELM_EXTRA_TOP`(44, 파츠 PNG가 셀보다 위로 큰 행 수)·`mageHelmPartPath`/`mageHelmPartPaths`(20장, 장당 9~19KB)·`mageHelmIndexFor(save)`(투구 없음·기본형 아님 -1)·`mageHelmPlacement(성별, 동작, 프레임)`(서기 `{0,-44,1}`, 걷기·공격 4프레임)·`mageHeadlessBodyPath`/`mageHeadlessBodyPaths`(지팡이 착용 여부로 `mage_headless/`·`mage_headless/nostaff/`). 파츠와 머리 없는 시트는 `scripts/build-mage-helm-parts.py`가 승인 시안(`downloads/mage_helm_v2/`)에서 만든다 — 지우는 구멍은 게임에 들어간 서기 셀 실루엣에서 자동으로 딴다.
+- `render/mageHelmets.ts` (작업 204, 신규) — 마법사 전용 모자·투구 10종 파츠 규칙.
+  [작업 247] 파츠는 **목선(셀 y 104)에서 끝난다**(상반신을 담지 않는다) — `scripts/build-mage-helm-parts.py` 의 `NECK_Y`·`EXTRA_BOX`, `ERASE_BOX`(머리 구멍)와 같은 높이다. 같은 파일에 발광 범위 마스크 `MAGE_HELM_GLOW_ZONE`(성별 목선 페이드 84→106/108·얼굴 원)·`mageHelmGlowAlpha(성별,x,y)`(0~1, 캔버스와 테스트의 공통 식)·`mageHelmGlowMaskCanvas`/`mageHelmGlowMaskTexture`(362×406, 성별당 1장 캐시, **새 PNG 없음**)가 있고, 필드는 `entities.ts` `syncGearGlow(..., maskTexture)` + `GameView.heroHelmGlowMask`, 장비창은 `equipmentPortrait.ts` `paintPatch` 의 `destination-in` 이 쓴다. `MAGE_HELM_COUNT`(10)·`MAGE_HELM_EXTRA_TOP`(44, 파츠 PNG가 셀보다 위로 큰 행 수)·`mageHelmPartPath`/`mageHelmPartPaths`(20장, 장당 9~19KB)·`mageHelmIndexFor(save)`(투구 없음·기본형 아님 -1)·`mageHelmPlacement(성별, 동작, 프레임)`(서기 `{0,-44,1}`, 걷기·공격 4프레임)·`mageHeadlessBodyPath`/`mageHeadlessBodyPaths`(지팡이 착용 여부로 `mage_headless/`·`mage_headless/nostaff/`). 파츠와 머리 없는 시트는 `scripts/build-mage-helm-parts.py`가 승인 시안(`downloads/mage_helm_v2/`)에서 만든다 — 지우는 구멍은 게임에 들어간 서기 셀 실루엣에서 자동으로 딴다.
 - `render/staffs.ts` (작업 201, 신규) — 착용 지팡이 10종 파츠 규칙. `STAFF_GRIP`(그립 점 (92,114))·`STAFF_POSES`(남녀 × 9자세 = 그립 좌표·회전각)·`staffIndexFor(save)`(지팡이 아니면 -1)·`staffPartPath`(0~9 모두 파츠)·`usesStafflessBody`·`stafflessBodyPath`(`mage_nostaff/` 본체 시트)·`staffTierCacheLimit`(3). 파츠는 `scripts/build-staff-parts.py`가 승인 시안(`tools/staff-src/`)에서 몸통 정합으로 뜬다.
 - `render/weapons.ts` (작업 156, 신규) — 착용 대검 10종 파츠 규칙. `WEAPON_POSES`(남녀 × 서기·걷기4·공격4 = 자세별 가드 좌표·회전각), `WEAPON_GUARD`(파츠 앵커), `weaponIndexFor(save)`(0 = 기본 두손검), `weaponPartPath`/`weaponPartPaths`(1~9번만 파츠), `usesSwordlessBody`, `swordlessBodyPath(s)`(`noweapon/` 본체 시트), `weaponTierCacheLimit`(3). 파츠는 `scripts/build-weapon-parts.py`가 승인 시안(`tools/weapon-src/`)에서 뜬다.
 - `render/entities.ts` — 히어로·적·시체·잔상 그리기. `drawHero`, `activeSkillMotion`, `updateAfterimages`, `updateCorpses`, `drawEntities`. `drawHero`는 **코스튬 레이어 경로 → 폴백(통합 바디 + 무기 소켓) 경로** 순서로 시도하고, 모션·프레임·재생 배율은 `heroMotion.ts`, 본체 배율·그림자 반지는 두 경로가 같은 식을 쓴다. 잔상은 코스튬 모드에서 보이는 레이어를 모두 복제한다.
@@ -431,3 +432,4 @@ npm run check && npm test && npm run build # 공용 계약 수정·사용자 요
 - 작업196 사용자 4건("오른쪽으로 … 보스죽은주변 흩뿌려줘", "일괄분해기준은 내가 설정한거 고정", "일괄분해 보호넣자 알림주자", "자동분해버튼넣고 활성화하면 접속중에만 된다고") + 고층 밸런스 2건: ① 금화 무더기를 오른쪽 시안(동전 22/23/22px·`squash .50`·1px `#482e0c` 테두리·2px `#8a5a12` 두께·밝기 1.10/대비 1.08)으로 바꾸고 두 화면이 `render/goldCoinArt`의 같은 칩을 쓴다(던전 색 보정 제거). ② `bossGoldSpot`을 화면 등각 바닥의 두 링(내부 44~56·외부 80~96px)으로 넓히고 각 무더기가 `from`(보스 자리)에서 포물선으로 날아간다. ③ 일괄 분해 기준은 `djrpg-salvage-rarity`에 저장(`ui/salvageRarity.ts`), `resetModalDefaults`에서 제거. ④ 장착품보다 강한 장비가 분해 대상에 있으면 `salvageUpgrades`가 확인 팝업으로 세운다(`.salvage-upgrade-list`). ⑤ `rollItem` 등급 컷을 깊이에 따라 올리고(78층 흰템 88.3%→60.1%, 레어 이상 7.5%) ⑥ `enemyMaxHp`를 블렌드 곡선으로(78층 4,386→15,359) ⑦ 접속 중 자동 분해 스위치(`ui/autoSalvage.ts`·`inventory.ts` `autoSalvageBlock`/`autoSalvageRecovered`·`world.ts` 회수 지점·장비창/설정 토글, 오프라인 보상 제외).- 작업195 사용자 3건: ① **메인 사냥 보스는 금화만**("메인층은 금화만 10무더기라고햇잖아") — `game/world.ts` `kill`이 보스에게 `bossItems(5)`를 뿌리던 분기를 없애고, 아이템은 일반 킬과 같은 **단일 확률 롤**(`equipmentDropChance(floor, boss)`·`skillBookDropChance(floor, boss)`·`rollItem(floor, guaranteed, boss)`)로 남겼다. 보스 금화 10무더기(`bossGoldPiles`/`bossGoldSpot`)·지급 시점·금액은 불변, 던전 5·10층은 예전대로 랜덤템 5개+10무더기(`bossItems`는 이제 던전 전용). ② **무더기 화질**("축소많이시킨거아냐?") — 256px `gold-coin.png`를 동전당 15~19px·`squash .56~.6`으로 눌러 쓰던 것을 동전 폭 **21~24px·`squash .65`**로 올려 뭉개짐을 줄이고, 필드 텍스처는 **밉맵 + 선형 샘플링**(`Assets.load({data:{scaleMode:'linear',autoGenerateMipmaps:true}})`·이미 로드된 텍스처에도 같은 설정)으로 줄인다. 던전 CSS는 무더기 기본 크기 24×16·`filter:none`(외곽광 없음)이고, 동전 아트(`gold-coin.png`)는 **그대로** 쓴다. ③ **새 에셋 금지**("무슨 똥덩어리를만들었어") — 195 1차에서 만든 전용 아트(`gold-pile.png`·`scripts/build-gold-pile.py`·`verify-item-art` 검사)는 **삭제**했고, 사용자가 확정한 시안(가운데) 수치 — 폭 22/21/24, `squash .65`, 오프셋 `(0,-9)`·`(10,-1)`·`(-10,1)` — 를 그대로 쓴다.
 
 - 작업210 캐릭터 선택 카드 외형 동기화: 카드 그림은 `equipmentPortrait.ts`의 공용 합성 경로를 그대로 쓴다. `charactersModal.ts` `characterPortraitSave(summary)`가 서버 `equipment`(투구·갑옷·무기 **이름**만)를 최소 `Save`로 바꿔 `equipmentPortraitPlan`/`renderEquipmentPortrait(save, {height: 360})`에 넘기고, 접속 중인 슬롯(`slot === ui.session.characterSlot`)만 `ui.world.save`를 써서 장비를 갈아입으면 모달을 다시 열 때 바로 반영된다. 서버는 `account.mjs` `portraitEquipment`가 `save_json`에서 외형 3슬롯의 이름만 40자로 잘라 내려보내고(능력치·가방·세이브 본문 없음), `renderEquipmentPortrait`의 캐시 키에 출력 높이를 붙여 장비창(720px)과 카드(360px)가 서로를 덮어쓰지 않는다. CSS는 `.character-slot img.character-portrait`(112px·`object-fit: contain`·`object-position: center bottom`)로 머리·무기를 자르지 않고 발끝을 맞춘다.
+| 마법사 투구만 유니크인데 로브 상체까지 빛남 / 투구를 쓰면 상체 옷이 바뀌어 보임(작업 247) | `scripts/build-mage-helm-parts.py`(`NECK_Y`=104 — 파츠와 머리 구멍이 같은 목선에서 끝난다), `src/game/render/mageHelmets.ts`(`MAGE_HELM_GLOW_ZONE`·`mageHelmGlowAlpha`·`mageHelmGlowMaskTexture`), `render/entities.ts` `syncGearGlow` 마스크 인자·`render.ts` `heroHelmGlowMask`, `ui/equipmentPortrait.ts` `paintPatch` 마스크(`destination-in`), 에셋 `public/assets/pilot-25d/mage_helms/*`(20장 재생성) | `tests/mage-helm-render`, `tests/gear-rarity-glow` |

diff --git a/docs/QUICK_PATCH.md b/docs/QUICK_PATCH.md
@@ -64,6 +64,7 @@
 | 궁수가 전사 판금 투구를 씀 / 궁수 투구에서 머리카락이 비침(작업 200) | `src/game/render/archerHelmets.ts`(`archerHelmPartPath`·`archerHelmPlacement` 자세 표·`archerHeadlessBodyPath`·`archerHelmIndexFor`), `render/entities.ts` `syncArcherHelmet`·`drawHero`(머리 없는 시트 교체), `render.ts`(`archerHeadlessFrame`·`prefetchArcherHeadless`·투구 파츠 프리로드), `ui/equipmentPortrait.ts`(`equipmentPortraitArcherHelm`·`composeFallback`), `scripts/build-archer-helm-parts.py`, `scripts/preview-archer-helms.py`, 에셋 `public/assets/pilot-25d/archer_helms/*`·`archer_headless/**` | `items.ts` `baseItems.helmet` 순서(= 파츠 인덱스)·`store.ts`/`server/**`/`world.ts` 계약, 파츠 PNG 손편집(추출은 `scripts/build-archer-helm-parts.py`로만), 머리 없는 시트를 다른 셀 크기로 만들기, 파츠 없이 머리만 지우기(구멍이 뚫린다) | `node --test tests/archer-helm-render.test.mjs tests/archer.test.mjs` + `node scripts/verify-item-art.mjs` |
 | 전사 서기(대기) 자세·검 그립이 어색함 / 서기 시트 교체 후에도 옛 그림(작업 222) | `src/game/render/weapons.ts`(`WEAPON_POSES[성별].idle0` 맨몸 앵커·`idleArmor` 갑옷 앵커, `weaponPose(..., armor)`), `render/entities.ts` `syncWeaponPart(..., armor)`·`drawHero`, `render/armors.ts`(`WARRIOR_IDLE_ASSET_VERSION`·`withMotionVersion`), `render/helmets.ts` `headlessBodyPaths.*.idle`, `render.ts` `paths.pilot*`, `ui/equipmentPortrait.ts`, 에셋 `public/assets/pilot-25d/warrior_*_idle_v1.png`·`headless/`·`noweapon/`·`armors/{,headless}/` 서기 | 걷기·공격 시트(`walk`·`attack`) 갈아치우기(같은 그립이라 그대로)·서기 URL `?v=2` 누락·`WeaponPose` 표에 자세 키 늘리기(맨몸/갑옷 두 값) | `node --test tests/weapon-render.test.mjs tests/armor-render.test.mjs tests/equipped-detail.test.mjs` |
 | 대검 10종 외형이 모두 같음 / 기본 검 잔상·손에서 칼이 떨어짐(작업 156) | `game/render/weapons.ts`(`WEAPON_POSES`·`weaponIndexFor`·`weaponPartPath`·`usesSwordlessBody`·`swordlessBodyPath`), `render/entities.ts` `syncWeaponPart`·`drawHero`의 시트 교체, `render.ts`(`weaponPart`·`prefetchWeapon`·`prefetchBody`·`bodySheetFrame`), `render/armors.ts`(`armorSheetPath(..., swordless)`), `ui/equipmentPortrait.ts`(`equipmentPortraitWeapon`), `scripts/build-weapon-parts.py` | 본체 시트·갑옷 시트에 기본 검을 다시 그려 넣기(0번은 그대로 둔다)·파츠를 자세별로 늘리기(강체 1장 + 자세 표)·파츠 부팅 프리로드·`store.ts`/`server/**`/`world.ts` 변경 | `node --test tests/weapon-render.test.mjs tests/armor-render.test.mjs` |
+| 마법사 투구만 유니크인데 로브까지 빛남 / 투구 쓰면 상체 옷이 바뀌어 보임(작업 247) | `scripts/build-mage-helm-parts.py`(`NECK_Y`=104·`EXTRA_BOX`·`ERASE_BOX`), `src/game/render/mageHelmets.ts`(`MAGE_HELM_GLOW_ZONE`·`mageHelmGlowAlpha`·`mageHelmGlowMaskCanvas`/`Texture`), `render/entities.ts`(`syncGearGlow` 7번째 인자 `maskTexture`·`heroHelmGlowMask`), `ui/equipmentPortrait.ts`(`paintPatch` `destination-in`), 에셋 `public/assets/pilot-25d/mage_helms/*`(20장·`?v=5`) | **파츠를 목선(104)보다 위에서 자르기**(머리 구멍이 104까지라 어깨에 투명 구멍이 난다 — 줄이려면 `mage_headless` 12장 + `robes/headless` 54장을 함께 재생성), 발광 마스크를 새 PNG 파일로 받기(캔버스로 성별당 1장만 굽는다), 전사·궁수 투구 발광에 이 마스크 걸기(그쪽은 파츠에 얼굴만 있어 지금 그대로가 맞다), 파츠 PNG 손편집(스크립트로만) | `node --test tests/mage-helm-render.test.mjs tests/gear-rarity-glow.test.mjs` + `npx tsc --noEmit` |
 | 마법사 모자·투구 10종이 안 나옴 / 모자·후광이 잘리거나 머리카락이 비침(작업 204) | `src/game/render/mageHelmets.ts`(`mageHelmPartPath`·`mageHelmPlacement` 자세 표·`MAGE_HELM_EXTRA_TOP`·`mageHeadlessBodyPath`·`mageHelmIndexFor`), `render/entities.ts` `syncMageHelmet`·`drawHero`(머리 없는 시트 교체), `render.ts`(`mageHeadlessFrame`·`prefetchMageHeadless`·투구 파츠 프리로드), `ui/equipmentPortrait.ts`(`equipmentPortraitMageHelm`·`composeFallback`), `scripts/build-mage-helm-parts.py`, 에셋 `public/assets/pilot-25d/mage_helms/*`(362×406)·`mage_headless/{,nostaff}/**` | `items.ts` `baseItems.helmet` 순서(= 파츠 인덱스)·`store.ts`/`server/**`/`world.ts` 계약, 파츠 PNG 손편집(추출은 `scripts/build-mage-helm-parts.py`로만), 파츠 PNG를 362×362로 만들기(고깔모·후광이 잘린다), 머리 없는 시트를 다른 셀 크기로 만들기, 파츠 없이 머리만 지우기(구멍이 뚫린다), 서기 본체 시트(`mage_*_idle_v1.png`) 재생성 없이 `?v=2` 빼기 | `node --test tests/mage-helm-render.test.mjs tests/mage.test.mjs tests/staff-render.test.mjs` + `node scripts/verify-item-art.mjs` |
 | 지팡이 10종 외형·기본 지팡이 잔상(작업 201) | `game/render/staffs.ts`(`STAFF_POSES`·`staffIndexFor`·`staffPartPath`·`stafflessBodyPath`), `render/entities.ts` `syncStaffPart`·`drawHero` 마법사 분기, `render.ts`(`staffPart`·`prefetchStaff`·`staffBodyFrame`), `ui/equipmentPortrait.ts`(`equipmentPortraitStaff`), `scripts/build-staff-parts.py` | 본체 시트(`mage_*_v1.png`)에 기본 지팡이를 다시 그려 넣기·0번만 파츠 제외하기(작업 201: 0~9 모두 파츠)·파츠를 자세별로 늘리기(강체 1장 + 자세 표)·파츠 부팅 프리로드·`store.ts`/`server/**`/`world.ts` 변경 | `node --test tests/staff-render.test.mjs tests/mage.test.mjs` |
 | 가방·경매장 직업 표기·`내 직업만 보기`(작업 205) | `game/items.ts`(`skillBookJob`·`itemJob`·`usableByJob`), `ui/jobFilter.ts`, `ui/interface.ts`(`bagJobOnly`·`marketJobOnly`), `ui/modals/{equipModal,marketModal}.ts`, `ui/skillBooks.ts`, `styles/{modals,market}.css`(`.job-badge`·`.bag-job-only`·`.market-job-only`·`.job-warning`) | 공용 방어구·장신구 숨기기(세 직업이 같이 입는다)·**타직업 스킬북 사용 허용(작업 206: `useSkillBook`이 `{직업} 전용 스킬북입니다`로 막고 소모하지 않는다)**·**필터로 아이템 삭제·세이브 변경**(보기 전용)·기본값을 켜짐으로 두기(기본은 전체 보기)·필터 상태를 서버 Save에 저장·경매장 서버 필터(`filters`)에 직업 키 넣기(서버 계약 유지, 화면에서 거른다) | `node --test tests/job-filter.test.mjs tests/modal-ui.test.mjs tests/market.test.mjs tests/skill-ui.test.mjs` |

diff --git a/docs/WORKLOG.md b/docs/WORKLOG.md
@@ -1,3 +1,17 @@
+## 2026-11-21 · songduckjin 작업 247 — 마법사 모자·투구 파츠에서 상반신 걷어내기(투구만 빛나게)
+
+- **제보**: "투규만 유니크인대 갑옷도 반짝거리네"(02:23 KST, `IMG_1147`) — 마법사 여성 캐릭터에 **투구만 유니크**인데 로브 상체까지 주황색으로 반짝였다.
+- **원인(확인)**: `mage_helms/{male,female}_{0..9}_v1.png`(362×406)가 머리·모자만이 아니라 **상반신 전체**(어깨·가슴·허리·양팔·왼손의 불꽃, 셀 y 195)를 담고 있었다. 파츠가 로브 위를 덮어 상체 옷이 바뀌어 보였고, 등급색 발광이 파츠 전체에 걸려 로브까지 물들었다. 파츠 아래 경계(`EXTRA_BOX` y=196/176)가 머리 구멍(`ERASE_BOX` y=104)보다 훨씬 아래였던 것이 원인.
+- **파츠 수정**(`scripts/build-mage-helm-parts.py`): `NECK_Y = 104` 를 두고 **머리 구멍과 파츠가 같은 목선에서 끝나게** 했다(파츠 y1 196/176 → 104). 같은 시안에서 20장 재생성(9~19KB → 5~12KB) 후 `restore-pilot-alpha.py` 로 작업 227의 내부 알파 기준을 다시 맞췄다. 머리 구멍·머리 없는 시트 12장은 손대지 않아 로브·지팡이·바꿔 입기 조합이 그대로다(재생성하면 알파·팔레트가 달라져 66장이 흔들린다).
+- **발광 마스크**(`mageHelmets.ts`): ① 파츠에 얼굴이 함께 들어 있어 유니크·전설에서 얼굴이 등급색 덩어리가 되고 ② 목선에서 끊긴 파츠에 발광을 그대로 걸면 가슴께에 **직선으로 잘린 발광 띠**가 남는다. 그래서 성별 마스크를 캔버스로 굽는다 — 목선(셀 y 84→106/108)으로 갈수록 빛이 사라지고, 얼굴(중심 194/48·205/52, 안쪽 20~22px)은 부드럽게 도려낸다. 새 PNG 파일 없이 성별당 1장만 캐시한다.
+- **필드**(`entities.ts`·`render.ts`): `syncGearGlow` 에 7번째 인자 `maskTexture` 를 두고, 마법사 투구일 때만 `mageHelmGlowMaskTexture(gender)` 를 넘겨 `GameView.heroHelmGlowMask` 스프라이트(파츠와 같은 앵커·위치·배율)를 발광 3겹의 마스크로 건다. 전사·궁수 투구는 예전처럼 마스크 없음.
+- **장비창**(`equipmentPortrait.ts`): `paintPatch` 가 발광 사본을 만든 뒤 마스크를 `destination-in` 으로 합성해 도려낸다(마법사 투구 레이어일 때만). `EquipmentPortraitMageHelm` 에 `gender` 를 더했다.
+- **캐시**: `PILOT_ASSET_VERSION` 4 → 5(같은 파일명으로 다시 구웠으므로 `?v=5`). 테스트 13개 파일의 `?v=4` 기대값을 함께 올렸다.
+- **검증**: `npx tsc --noEmit`·`npm run build` 통과(배포 번들 `index-8tRnUFGl.js` 에 `heroHelmGlowMask` 포함). 신규 테스트 2건(`mage-helm-render` — 20장 전수 목선 위에서 끝남·상반신 자리 0픽셀, 발광 마스크 식: 정수리 1·목선 0·얼굴 0·단조 감소) + `gear-rarity-glow` 1건(마스크 배선·캔버스 캐시·PNG 없음). 전체 1,060건 중 1,056 통과 — 실패 4건은 변경 전 `origin/main` 과 같은 기존 건(`costume-field-render` 2·`skillbook-server` 1·`hero-art` 1).
+- **검수 이미지**(`downloads/`): `djrpg_mage_helm_torso_before_after_v1.png`(수정 전/후 · 유니크 투구 · 장비창), `djrpg_mage_helm_glow_portrait_v1.png`(일반/유니크/전설 · 남녀), `djrpg_mage_helm_glow_field_v1.png`(필드 42% · 일반/유니크), `djrpg_mage_helm_glow_all_{female,male}_v1.png`(10종 전수 · 유니크).
+- **상태**: PR 준비 완료 — 사용자 지시 "오늘부터는 모아서 배포하자"에 따라 **머지·배포하지 않았다**.
+- **남은 것**: 어깨까지 파츠를 더 줄이려면 머리 구멍(현재 셀 y 104)을 목선까지 올려야 하고, 그러면 `mage_headless` 12장 + `robes/headless` 54장을 같은 규칙으로 다시 구워야 한다(그대로 줄이면 어깨에 투명 구멍이 난다). 이번 작업은 파츠·발광만 손봤다.
+
 ## 2026-11-21 · songduckjin 작업 246 — 가방 40칸 초과 저장 거절로 우편함·거래소가 잠기던 문제(+ FULL 표시·가득 참 안내)
 
 - **제보**: `#20869` "우편함 안받아져"·`#20887` "이전저장결과를 확인하래"·`#20915` "가방또는 징비데이터도 올바르지 않대"·`#20938` "가방 꽉차면 가방 풀 표시 해주고 우편도 받을따 가방이 꽉차짔다거 알림주기"(10:37~10:44 KST).
